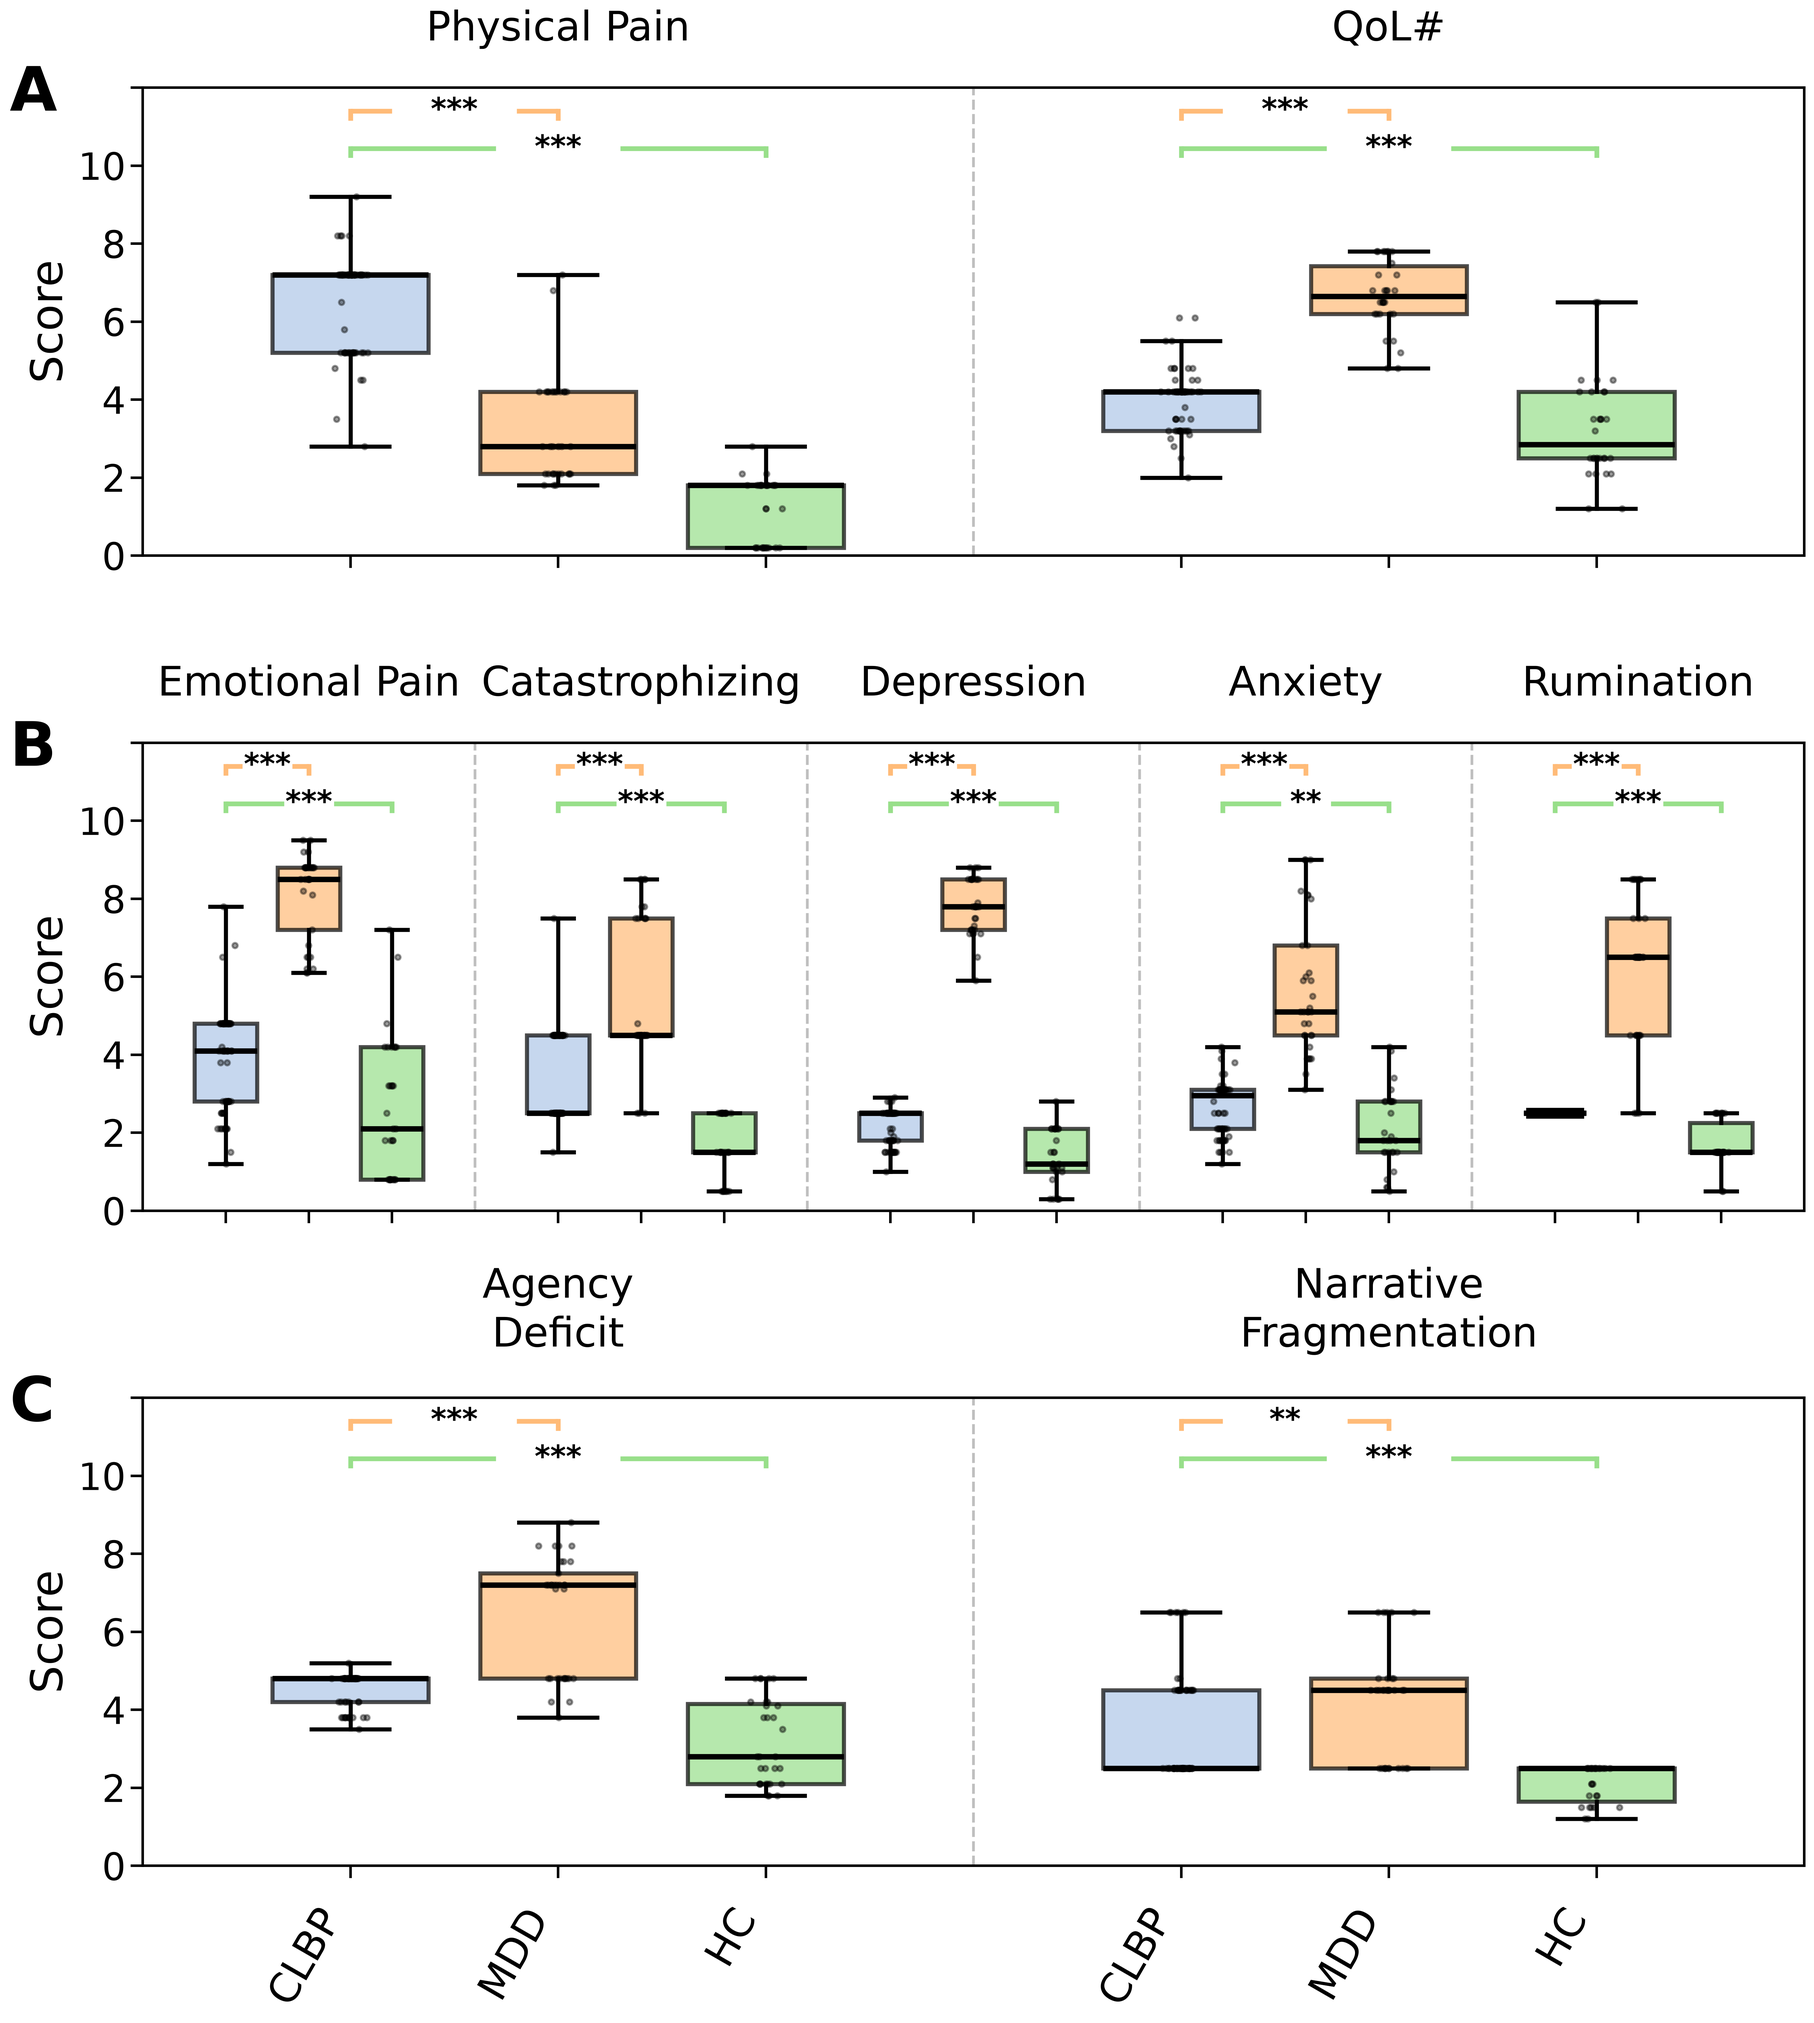
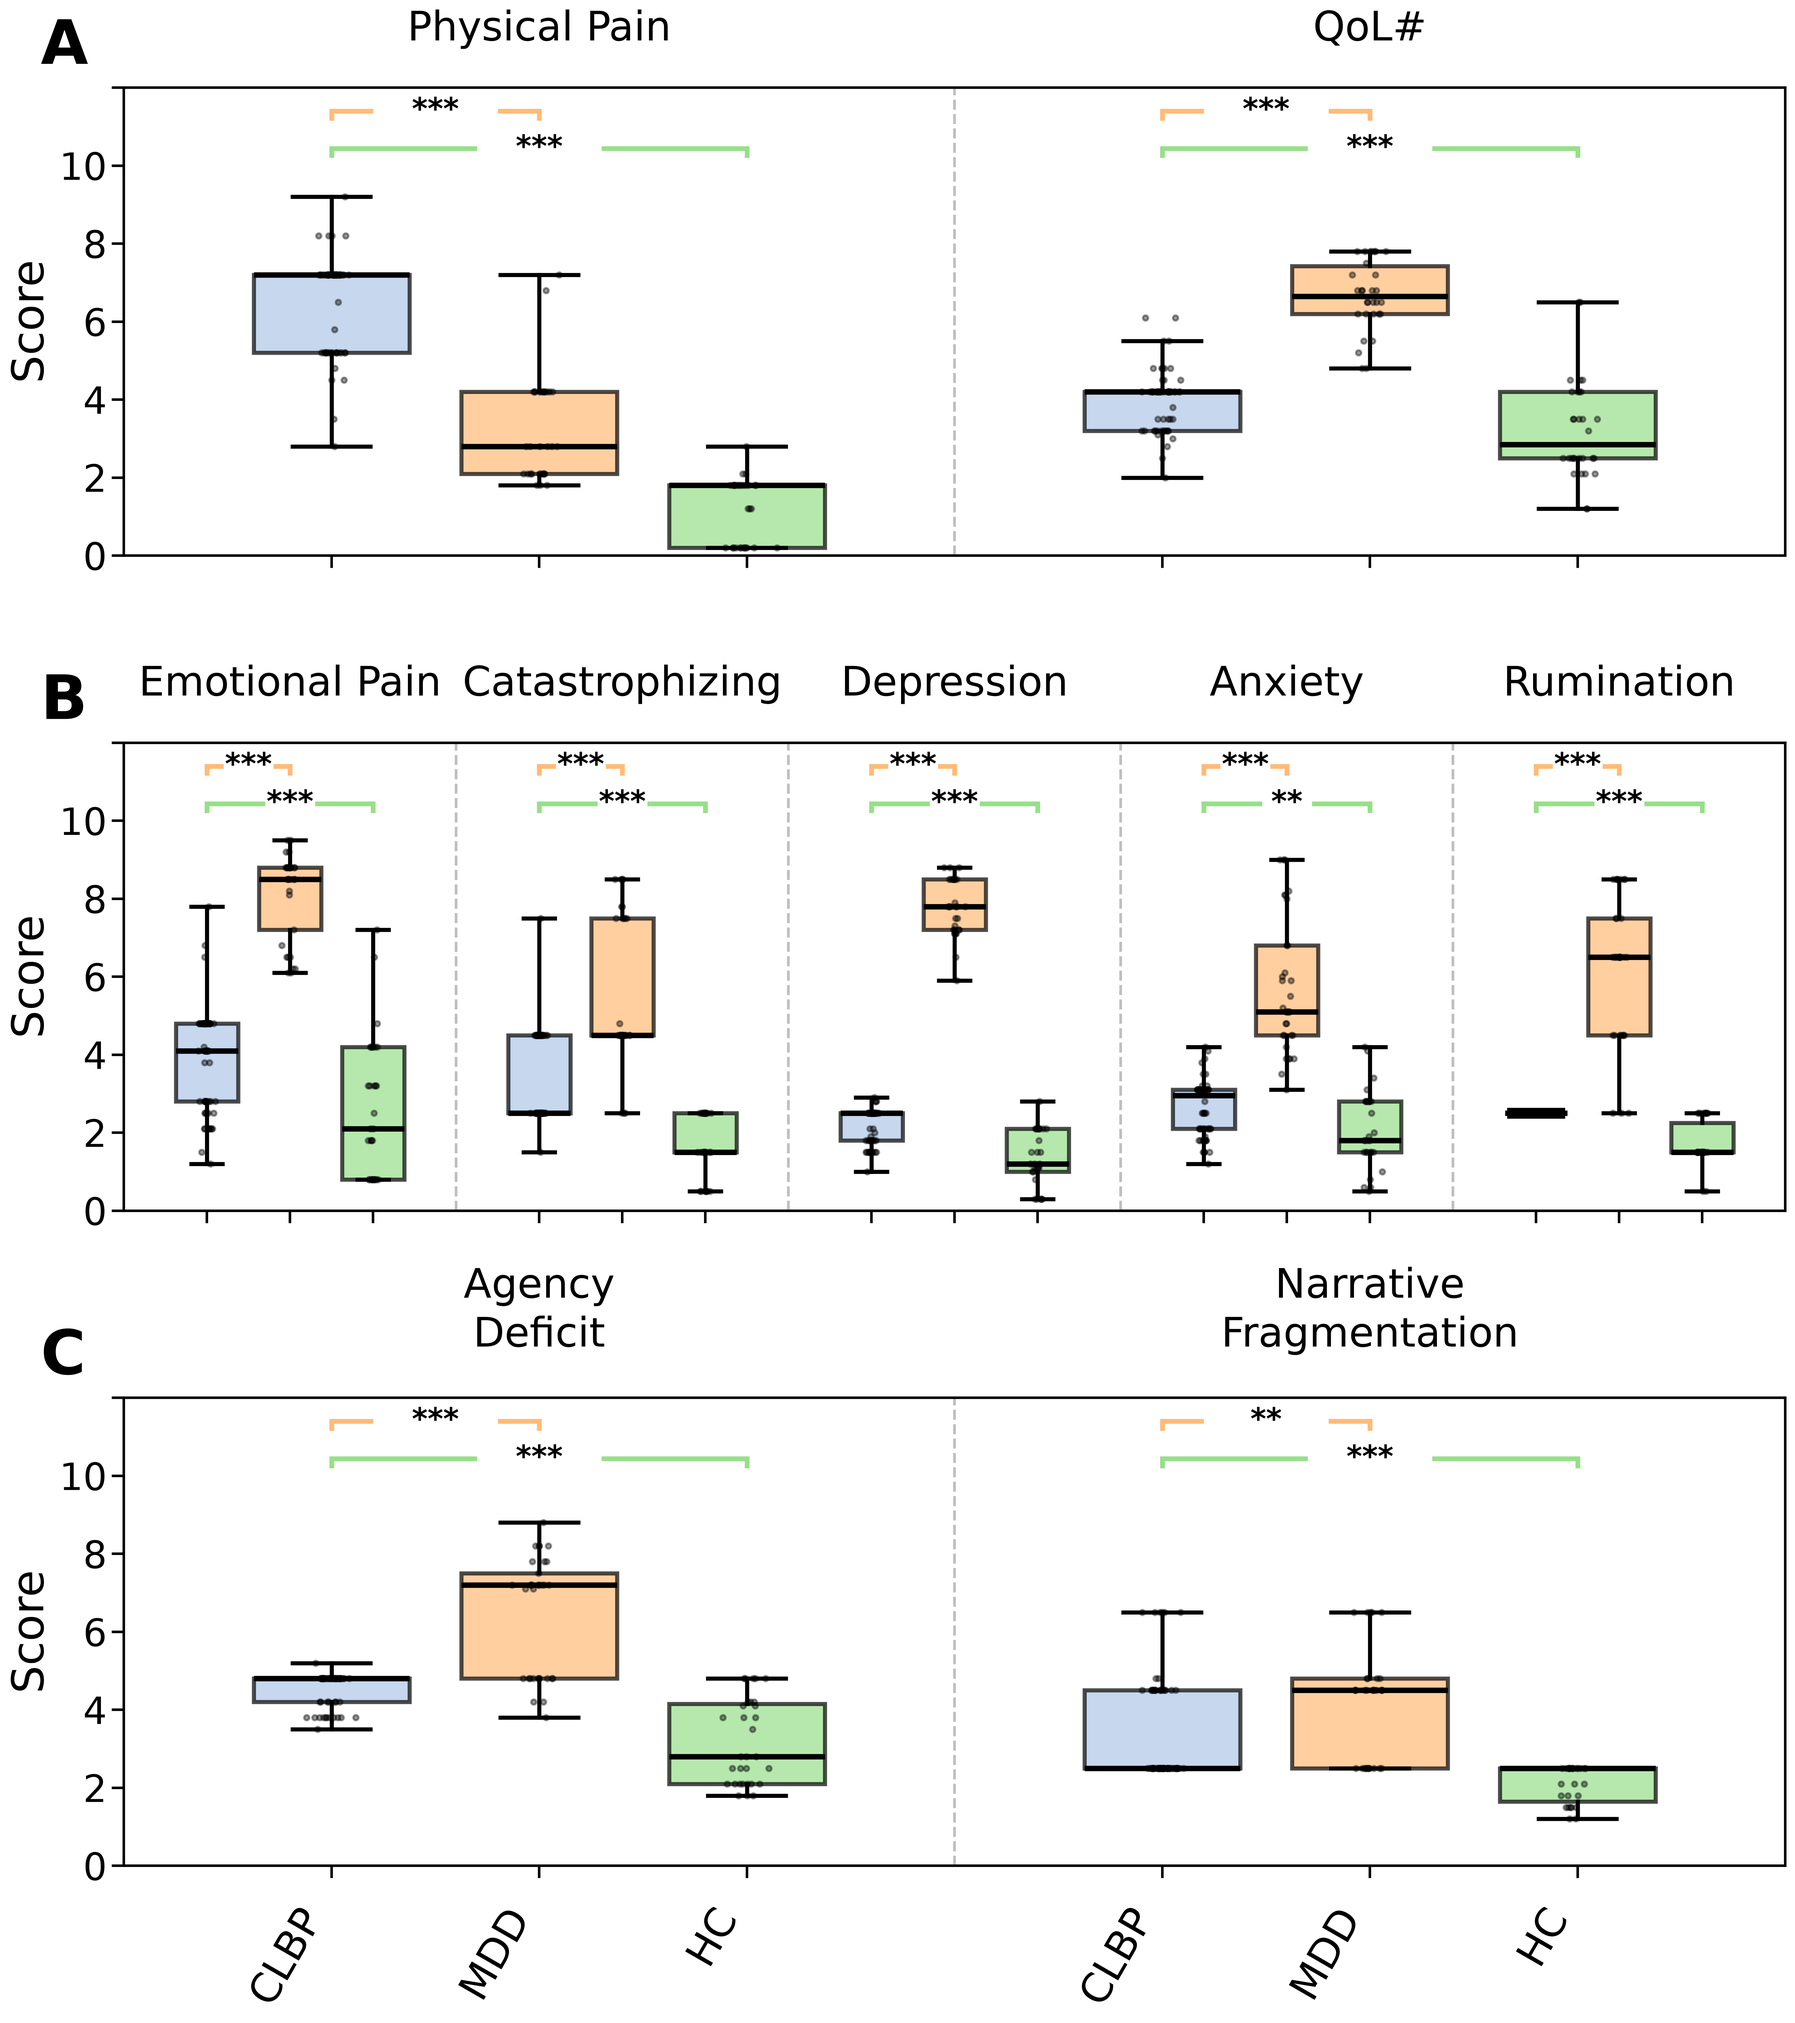
Add Fig. S1: speech duration + word count by cohort
figs1_data_amount.py reuses boxplots.py's plot_metrics_comparison.
All three pairwise comparisons are p<0.001 for both metrics, so
brackets are omitted from the plot and stated once in the caption.

Also fixes panel-label positioning in boxplots.py: wide y-tick labels
(e.g. "8000") were colliding with the panel letter at the old offset.

Document Fig. 5 and Fig. S1 in README.

diff --git a/Code/analysis/figs1_data_amount.py b/Code/analysis/figs1_data_amount.py
@@ -1,0 +1,53 @@
+"""Reproduce Fig. S1: speech duration and word count by cohort.
+
+Uses boxplots.py's plot_metrics_comparison (Kruskal-Wallis omnibus,
+then pairwise Mann-Whitney U, same mechanism as Fig. 2). All three
+pairwise comparisons (CLBP-MDD, CLBP-HC, MDD-HC) come out p < 0.001
+for both metrics, so brackets are omitted from the plot (three
+identical *** brackets per panel just add clutter) and the result is
+stated once in the figure caption instead.
+"""
+import sys
+from pathlib import Path
+
+sys.path.insert(0, str(Path(__file__).resolve().parent))
+from boxplots import plot_metrics_comparison
+
+sys.path.insert(0, str(Path(__file__).resolve().parents[1]))
+from config import DATA_AMOUNT_CSV, FIGURES_DIR
+
+import pandas as pd
+
+METRICS_GROUPS = [
+    ["speech duration (min)"],
+    ["word count"],
+]
+METRIC_NAMES_GROUPS = METRICS_GROUPS
+Y_LABELS = ["Speech Duration (min)", "Word Count"]
+Y_LIMITS = [(0, 60), (0, 10000)]
+
+
+def make_figure():
+    df = pd.read_csv(DATA_AMOUNT_CSV, encoding="utf-8-sig")
+
+    fig, caption = plot_metrics_comparison(
+        df,
+        METRICS_GROUPS,
+        METRIC_NAMES_GROUPS,
+        main_title="Amount of Data Analyzed",
+        group_labels=["CLBP", "MDD", "HC"],
+        dx_col="Dx",
+        y_labels=Y_LABELS,
+        y_limits=Y_LIMITS,
+        layout="horizontal",
+        add_pval_table=False,
+        pairwise_comparisons=None,  # all 3 pairs are p<0.001 for both metrics; see figure caption
+        fn=FIGURES_DIR / "figs1_data_amount.png",
+    )
+    print(caption)
+    print(f"Saved -> {FIGURES_DIR / 'figs1_data_amount.png'}")
+    return fig, caption
+
+
+if __name__ == "__main__":
+    make_figure()

diff --git a/Code/analysis/boxplots.py b/Code/analysis/boxplots.py
@@ -297,7 +297,10 @@ def plot_metrics_comparison(
         ax.tick_params(axis="y", labelsize=22 * SCALE)
 
         panel_label = chr(65 + subplot_idx)  # A, B, C, ...
-        ax.text(-0.08, 1.05, panel_label, transform=ax.transAxes, fontsize=36 * SCALE, fontweight="bold", va="top", ha="left")
+        # A small y-bump (in addition to the x-offset) clears wide y-tick
+        # labels (e.g. "8000") without reaching high enough to collide with
+        # a figure-level main_title, which sits close to the figure top.
+        ax.text(-0.04, 1.08, panel_label, transform=ax.transAxes, fontsize=36 * SCALE, fontweight="bold", va="top", ha="left")
 
     caption_text = create_significance_caption(all_significant_results, group_sizes)
 

diff --git a/Code/config.py b/Code/config.py
@@ -50,3 +50,6 @@ CLINICAL_MDD_CSV = CLINICAL_DIR / "mdd_clinical.csv"
 GLASSO_DIR = RESULTS_DIR / "glasso"
 PARTIAL_CORR_CLBP_CSV = GLASSO_DIR / "partial_corr_clbp.csv"
 PARTIAL_CORR_MDD_CSV = GLASSO_DIR / "partial_corr_mdd.csv"
+
+# Per-subject speech duration + word count (Fig. S1)
+DATA_AMOUNT_CSV = RESULTS_DIR / "data_amount.csv"

diff --git a/README.md b/README.md
@@ -88,6 +88,8 @@ These two scripts require a live watsonx project with that model deployed; they 
 11. **`fig4c_circular_dendrogram_clbp.py`** / **`efig2c_circular_dendrogram_mdd.py`** — reproduce Fig. 4 / eFigure 2 panel C using `circular_dendrogram.py` and the precomputed partial correlation matrices in `Results/glasso/` (not a live GLasso refit — the dendrogram's topology is sensitive to small alpha differences that drift across scikit-learn versions, unlike panels A/B's significance counts, which reproduce exactly either way). Saves `Figures/fig4c_circular_dendrogram_clbp.png` / `efig2c_circular_dendrogram_mdd.png`.
 12. **`join_panels.py`** — `join_ab_c(...)`: stacks a panel-A/B image above a panel-C image with "A"/"B"/"C" labels, matching the paper's layout.
 13. **`fig4_join_panels_clbp.py`** / **`efig2_join_panels_mdd.py`** — composite the full Fig. 4 / eFigure 2 (panels A+B+C) using `join_panels.py`, saving `Figures/fig4_combined_clbp.png` / `efig2_combined_mdd.png`.
+14. **`fig5_reddit_comparison.py`** — reproduces Fig. 5 panels A-C (LLM metrics for the condition-specific section, clinical cohorts vs. matched Reddit communities `r/chronicpain` / `r/depressed`) using `boxplots.py` + `Results/reddit/`. No p-value brackets except `r/chronicpain` vs. `r/depressed`, gated on effect size (`min_effect_size=2`) rather than p-value, since Mann-Whitney p-values are trivially significant at Reddit's N (~4,900 / ~2,300) against clinical N (67/33). Panel D (schematic, built in PowerPoint) is not reproduced. Saves `Figures/fig5_reddit_comparison.png`.
+15. **`figs1_data_amount.py`** — reproduces Fig. S1 (speech duration + word count by cohort) using `boxplots.py` + `Results/data_amount.csv`. All three pairwise comparisons are p < 0.001 for both metrics, so brackets are omitted from the plot (`pairwise_comparisons=None`) and stated once in the figure caption instead. Saves `Figures/figs1_data_amount.png`.
 
 Run from `run_llm_scoring.ipynb` / `run_word_counts.ipynb`, or directly:
 
@@ -104,10 +106,12 @@ python fig4c_circular_dendrogram_clbp.py
 python efig2c_circular_dendrogram_mdd.py
 python fig4_join_panels_clbp.py
 python efig2_join_panels_mdd.py
+python fig5_reddit_comparison.py
+python figs1_data_amount.py
 ```
 
 ---
 
 **Author:** Raquel (Kely) Norel, PhD
 **Domain:** Computational Psychiatry / NLP / LLM-Based Clinical Assessment
-**Status:** 🚧 In progress. Preprocessing, the LLM-scoring pipeline, precomputed LLM scores and clinical data, and Fig. 2, Fig. 3, and Fig. 4 / eFigure 2 (all panels) are in place. Remaining: classification analysis, Reddit external validation (Fig. 5), and the 100-run output variability check at `temperature=0` (SD/CV/ICC1).
+**Status:** 🚧 In progress. Preprocessing, the LLM-scoring pipeline, precomputed LLM scores and clinical data, and Fig. 2, Fig. 3, Fig. 4 / eFigure 2 (all panels), Fig. 5 (panels A-C), and Fig. S1 are in place. Remaining: classification analysis and the 100-run output variability check at `temperature=0` (SD/CV/ICC1).
